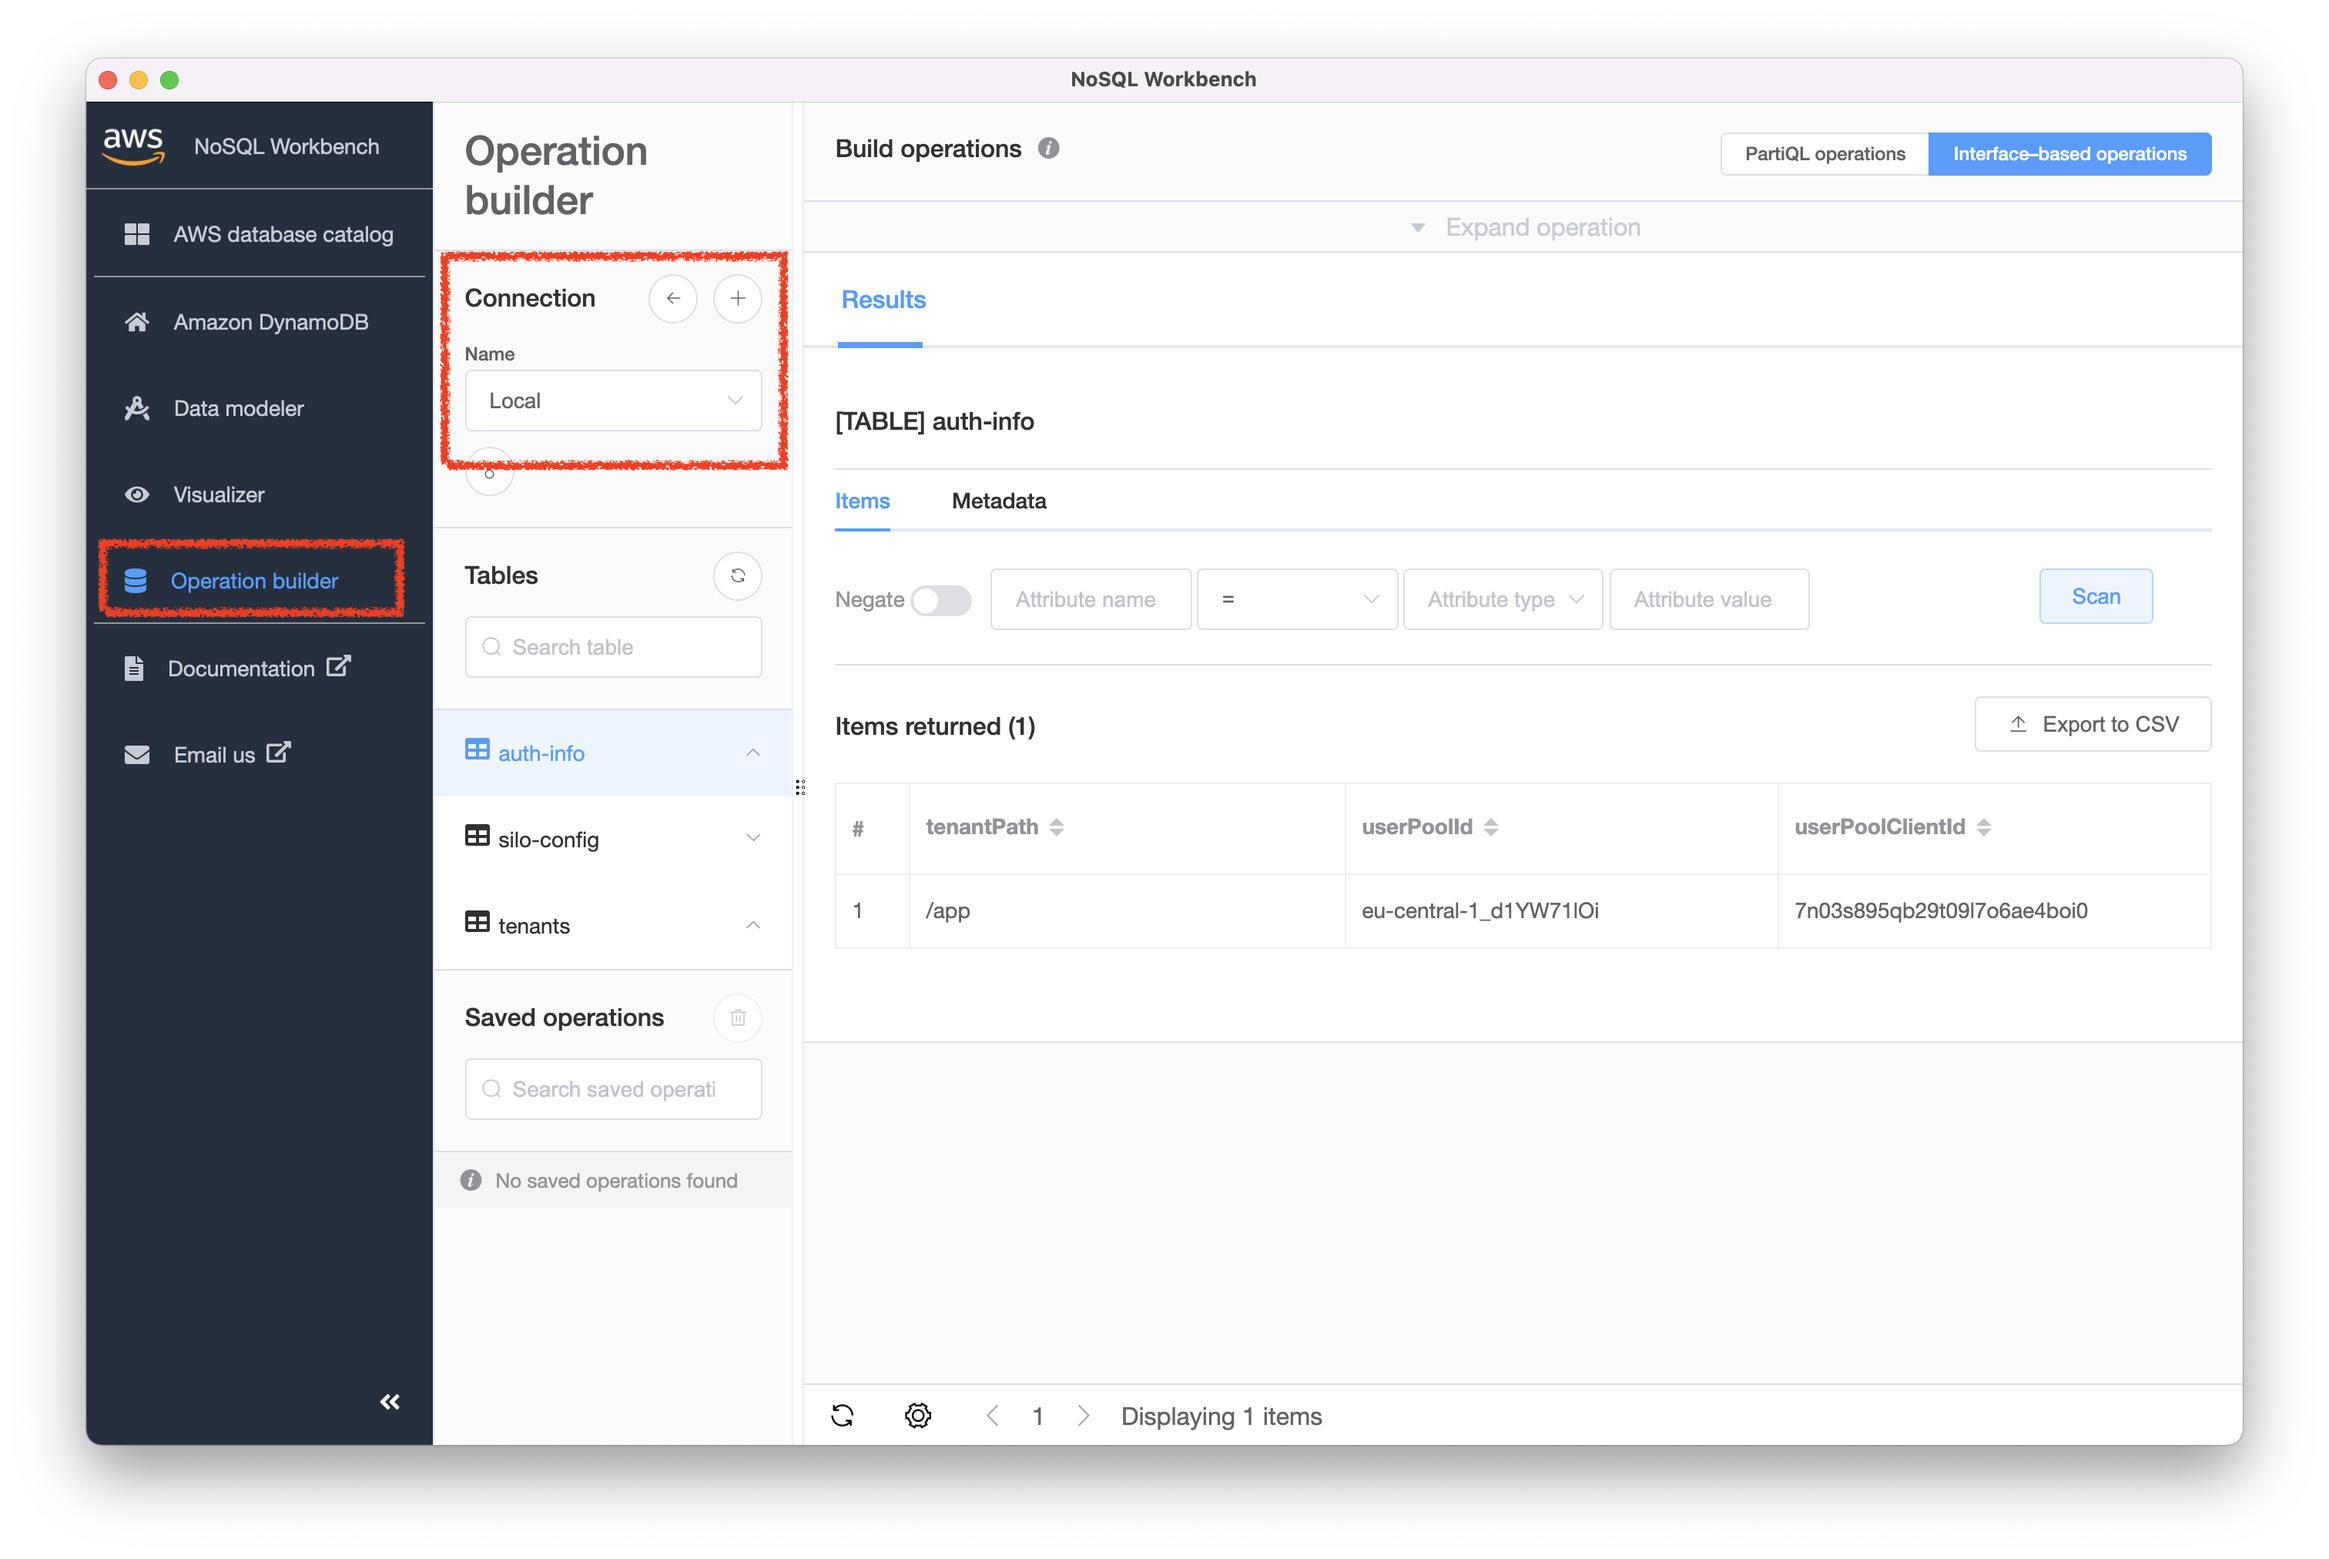
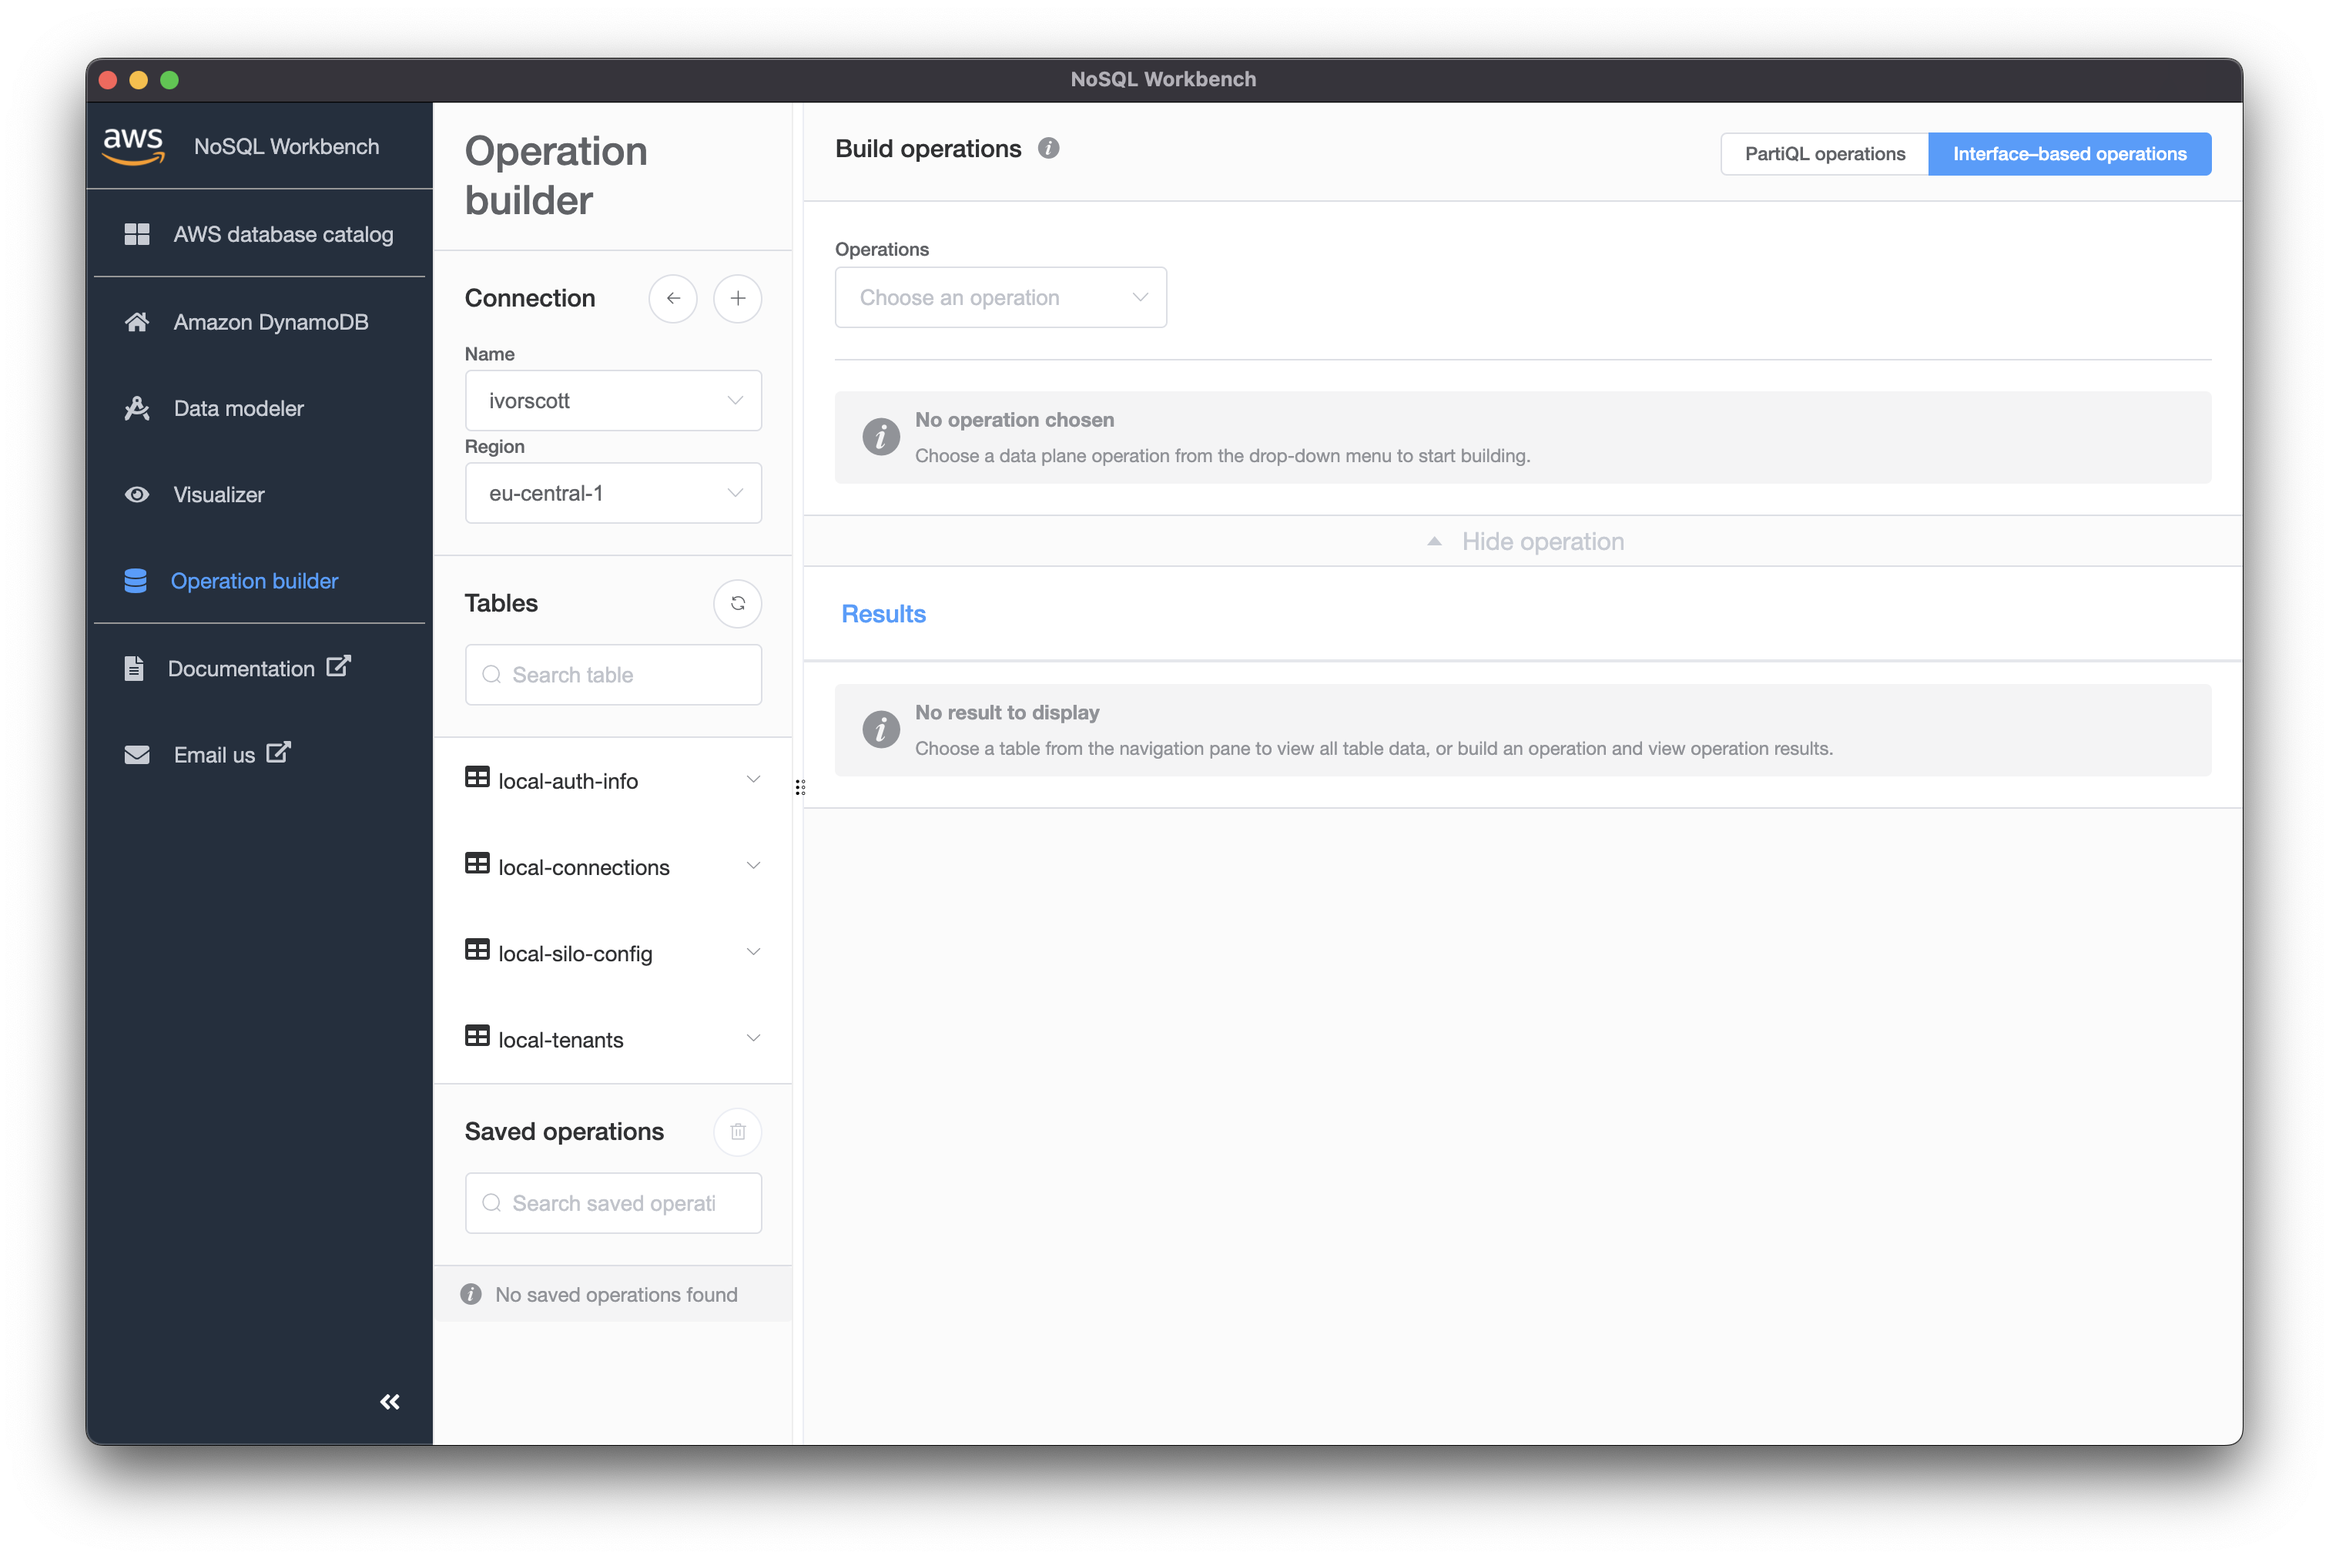
docs: update setup

diff --git a/docs/SETUP.md b/docs/SETUP.md
@@ -46,8 +46,7 @@ Tested on a m1 mac . It should work on linux as well.
    > If you still see the "Not Secure" label in the browser you may need to restart the browser 
    > for the changes to take effect.
 9. Start containers: `tilt up`
-10. Setup local DynamoDB tables: `make dynamodb-create`
-    - You should see 3 DynamoDB tables. The only table with data at this point is `auth-info`.   
+10. Use NoSQL Workbench to connect to your provisioned DynamoDB tables.
     ![](img/workbench.png)
 11. Port forward the traefik ports: `make ports`
 12. Deploy ingress routes: `make routes`
